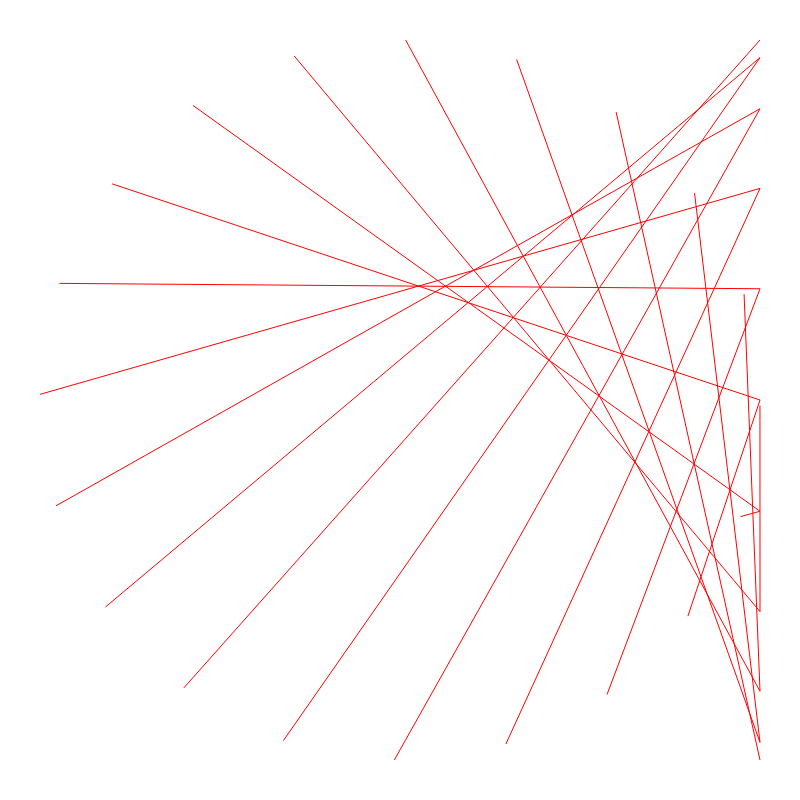
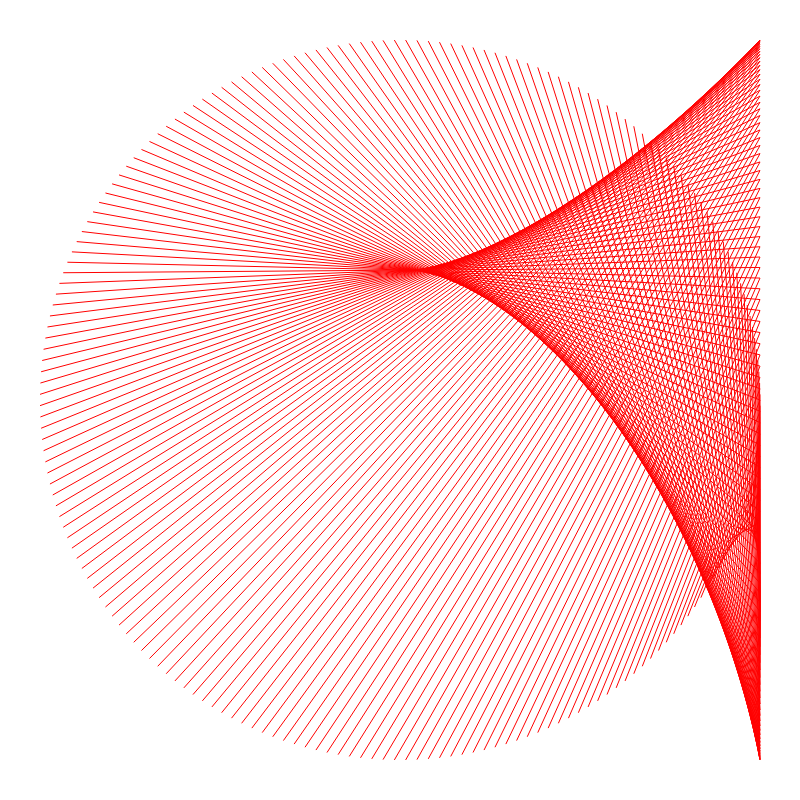
greater iterations

Changed region(s): [[0.0625, 0.0625, 0.9688, 0.9375]]

diff --git a/cardio3.html b/cardio3.html
@@ -1,7 +1,6 @@
 <!DOCTYPE HTML>
 <html>
 	<head>
-		<meta http-equiv="refresh" content="10">
 	</head>
 
 	<body>
@@ -23,7 +22,7 @@
 			var draw = function(interval) {
 
 				// Draw dots
-				const iterations = 20
+				const iterations = 200
 
 				const x2 = x + radius * Math.cos(2 * Math.PI * 0 / iterations)
 				// const y2 = y + radius * Math.sin(2 * Math.PI * 0 / iterations)
@@ -53,9 +52,9 @@
 				context.clearRect(0, 0, canvas.width, canvas.height)
 
 				draw(interval)
-				interval += .05
+				interval += 1.1
 
-			}, 80)
+			}, 1000 / 20)
 
 		</script>
 	</body>
